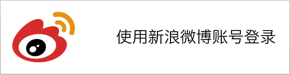
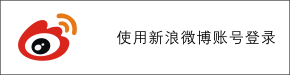
替换切图

Changed region(s): [[0.0, 0.0, 1.0, 1.0], [0.4034, 0.3733, 0.9621, 0.6133]]

diff --git a/FashionShop/FashionShop/FSTopicViewController.m b/FashionShop/FashionShop/FSTopicViewController.m
@@ -16,6 +16,7 @@
 #import "FSPagedTopic.h"
 #import "FSTopic.h"
 #import "FSProductListViewController.h"
+#import "SecondViewController.h"
 
 #define TOPIC_LIST_CELL @"FSTopicListCell"
 
@@ -50,6 +51,11 @@
 - (void)viewDidLoad
 {
     [super viewDidLoad];
+//    UIBarButtonItem *left = [[UIBarButtonItem alloc] initWithTitle:@"Left"
+//                                                             style:UIBarButtonItemStylePlain
+//                                                            target:self
+//                                                            action:@selector(showLeft)];
+//    self.navigationItem.leftBarButtonItem = left;
     
     [self prepareData];
     [self prepareLayout];

diff --git a/FashionShop/Controls/Views/FSShareView.h b/FashionShop/Controls/Views/FSShareView.h
@@ -34,8 +34,8 @@ typedef void (^FSShareCompleteHandler) (NSString *activityType, BOOL completed) 
 #define SHARE_WB_TITLE @"新浪微博"
 #define SHARE_TC_ICON @"tengxun_weibo_icon"
 #define SHARE_TC_TITLE @"腾迅微博"
-#define SHARE_QQ_ICON @"xinlang_weibo_icon"
-#define SHARE_QQ_TITLE @"QQ Zone"
+#define SHARE_QQ_ICON @"qq_friends_icon"
+#define SHARE_QQ_TITLE @"QQ空间"
 
 
 @interface FSShareView : NSObject<AWActionSheetDelegate>

diff --git a/FashionShop/FashionShop/FSAppDelegate.m b/FashionShop/FashionShop/FSAppDelegate.m
@@ -49,8 +49,10 @@ void uncaughtExceptionHandler(NSException *exception)
     
     //setup exception handler
     NSSetUncaughtExceptionHandler(&uncaughtExceptionHandler);
+#if defined ENVIRONMENT_STORE
     //setup analysis
     [self setupAnalys];
+#endif
     
     //set global layout
     [self setGlobalLayout];

diff --git a/FashionShop/FashionShop/FSAppDelegate.h b/FashionShop/FashionShop/FSAppDelegate.h
@@ -14,7 +14,6 @@
 
 @property (strong, nonatomic) UIWindow *window;
 
-
 @property (strong,nonatomic) FSModelManager *modelManager;
 
 @property (strong,nonatomic) FSLocationManager *locationManager;
